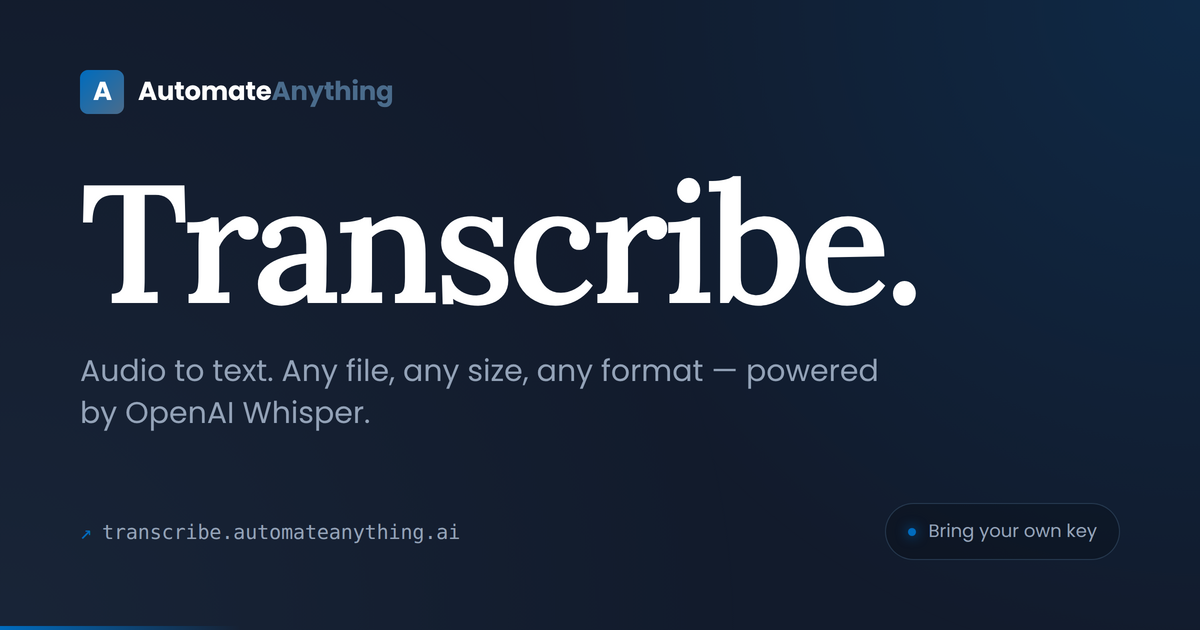
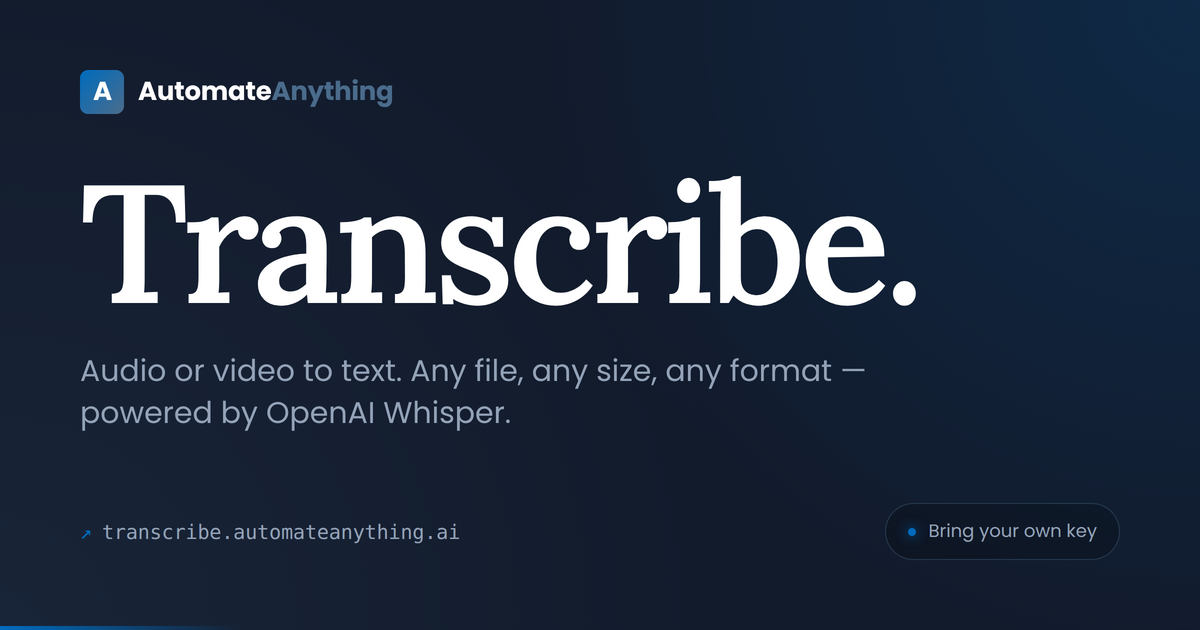
Surface video support: dropzone, hero, meta tags, OG image
People with video files were getting actively misled — the
dropzone heading literally said 'Select an audio file.' Made
video acceptance visible at every level:

- Dropzone heading: 'Select an audio file' -> 'Audio _or_ Video'
  (the 'or' is rendered smaller and italic so the two file
  categories stand as equal peers visually)
- Dropzone subtitle: lists formats explicitly — MP3, M4A, WAV,
  MP4, MOV, WEBM, and more
- File input aria-label updated for screen readers
- Hero tagline: 'Audio to text' -> 'Audio or video to text'
- Page <title> stays the same but meta description, OG title,
  OG description, and OG image alt all updated
- OG image (1200x630) regenerated with 'Audio or video to text'
  subtitle so social shares advertise it correctly

Changed region(s): [[0.0617, 0.573, 0.74, 0.6937]]

diff --git a/public/index.html b/public/index.html
@@ -4,22 +4,22 @@
   <meta charset="utf-8">
   <meta name="viewport" content="width=device-width, initial-scale=1">
   <title>Transcribe — AutomateAnything</title>
-  <meta name="description" content="Audio to text. Any file, any size, any format — powered by OpenAI Whisper. Bring your own API key.">
+  <meta name="description" content="Audio or video to text. Any file, any size, any format — powered by OpenAI Whisper. Bring your own API key.">
 
   <!-- Open Graph (Facebook, LinkedIn, iMessage, Slack, etc.) -->
   <meta property="og:type" content="website">
   <meta property="og:site_name" content="AutomateAnything">
-  <meta property="og:title" content="Transcribe — Audio to text, any file, any size">
+  <meta property="og:title" content="Transcribe — Audio or video to text, any file, any size">
   <meta property="og:description" content="Drop any audio or video file. Get a clean transcript back. Powered by OpenAI Whisper, bring your own key.">
   <meta property="og:url" content="https://transcribe.automateanything.ai/">
   <meta property="og:image" content="https://transcribe.automateanything.ai/og-image.png">
   <meta property="og:image:width" content="1200">
   <meta property="og:image:height" content="630">
-  <meta property="og:image:alt" content="Transcribe — Audio to text. Any file, any size, any format. Powered by OpenAI Whisper.">
+  <meta property="og:image:alt" content="Transcribe — Audio or video to text. Any file, any size, any format. Powered by OpenAI Whisper.">
 
   <!-- Twitter / X -->
   <meta name="twitter:card" content="summary_large_image">
-  <meta name="twitter:title" content="Transcribe — Audio to text, any file, any size">
+  <meta name="twitter:title" content="Transcribe — Audio or video to text, any file, any size">
   <meta name="twitter:description" content="Drop any audio or video file. Get a clean transcript back. Powered by OpenAI Whisper, bring your own key.">
   <meta name="twitter:image" content="https://transcribe.automateanything.ai/og-image.png">
 
@@ -831,6 +831,13 @@
     .dz-input { position: absolute; top: 0; left: 0; width: 100%; height: 100%; opacity: 0; cursor: pointer; z-index: 2; font-size: 16px; pointer-events: auto; }
     .dz-visual { padding: 2.5rem 1.25rem; text-align: center; pointer-events: none; position: relative; z-index: 1; }
     .dz-visual h2 { font-family: var(--font-serif); font-weight: 400; font-size: 1.5rem; color: var(--fg); }
+    .dz-visual h2 .dz-or {
+      color: var(--fg-muted);
+      font-style: italic;
+      font-weight: 400;
+      margin: 0 0.15em;
+      font-size: 0.85em;
+    }
     @media (min-width: 768px) { .dz-visual { padding: 3.5rem 2rem; } .dz-visual h2 { font-size: 2.25rem; } }
 
     .file-row { display: flex; flex-direction: column; gap: 1rem; padding: 1.25rem 1.5rem; border-bottom: 1px solid var(--border); }
@@ -1233,7 +1240,7 @@
     <div class="container">
       <section class="hero">
         <h1>Transcribe.</h1>
-        <p>Audio to text. Any file, any size. Quick path for small files, your own private server for large ones.</p>
+        <p>Audio or video to text. Any file, any size. Quick path for small files, your own private server for large ones.</p>
       </section>
 
       <!-- Server status badge -->
@@ -1374,11 +1381,11 @@
 
       <!-- Dropzone -->
       <label id="dropzone" class="dropzone">
-        <input id="file-input" class="dz-input" type="file" accept="audio/*,video/*" aria-label="Choose audio file">
+        <input id="file-input" class="dz-input" type="file" accept="audio/*,video/*" aria-label="Choose audio or video file">
         <div class="dz-visual">
           <div class="mono-sm" style="margin-bottom: 1.25rem;">[ Tap or drop file ]</div>
-          <h2>Select an audio file</h2>
-          <div class="mono-sm" style="margin-top: 1.5rem; opacity: 0.6;">any audio or video · MP3 / M4A finish fastest</div>
+          <h2>Audio <span class="dz-or">or</span> Video</h2>
+          <div class="mono-sm" style="margin-top: 1.5rem; opacity: 0.7;">MP3 · M4A · WAV · MP4 · MOV · WEBM · and more</div>
         </div>
       </label>
 